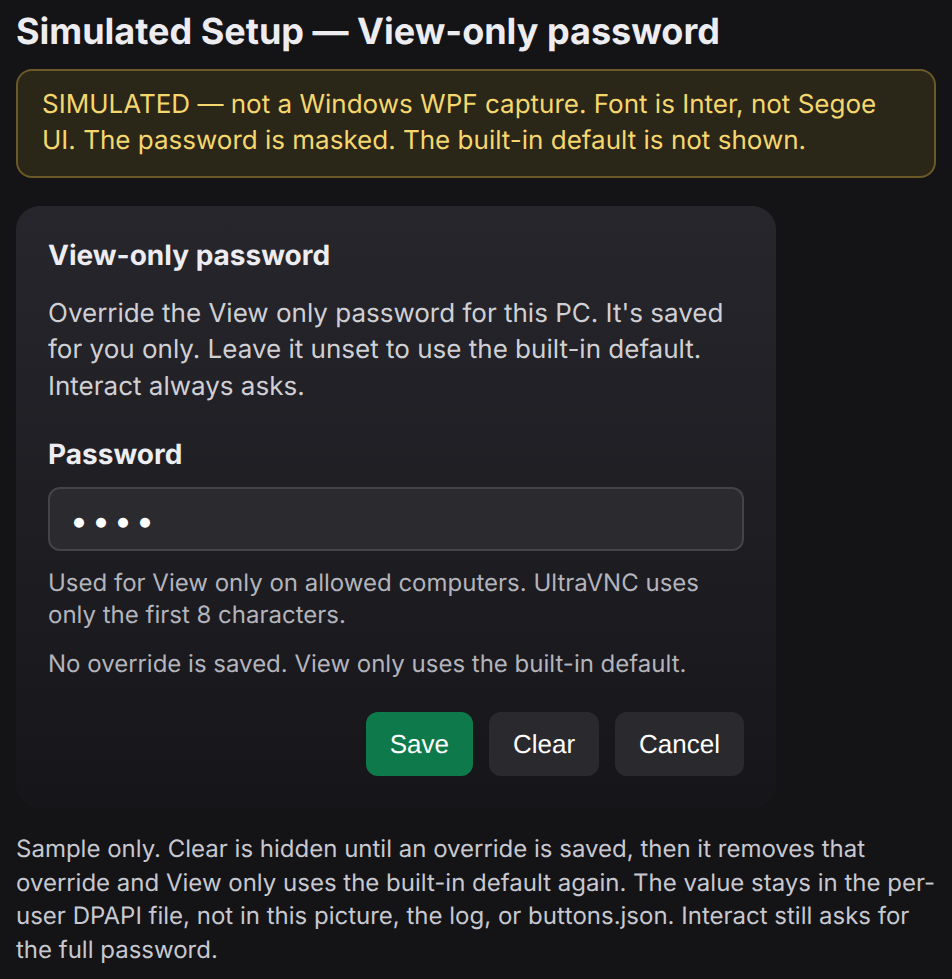
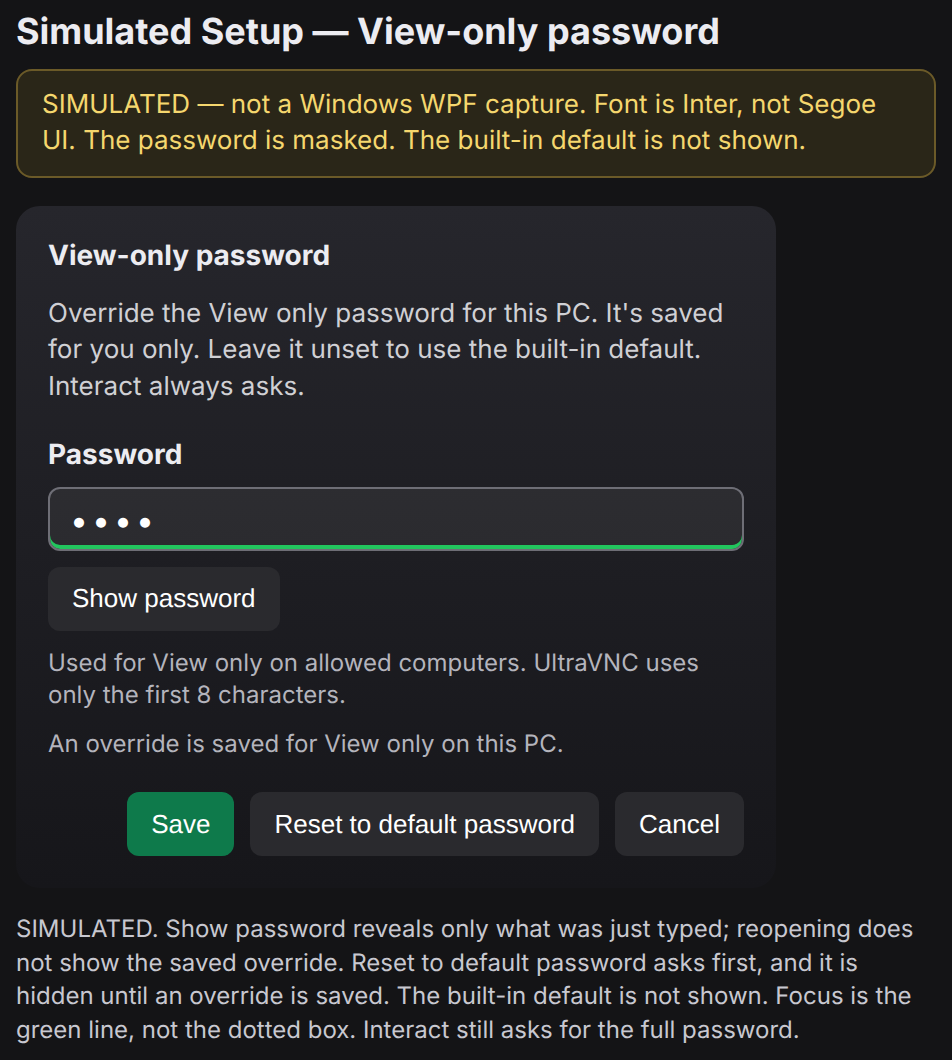
v1.4.12 review: keep the password handoff off the UI thread
The prompt wait is a dispatcher timer that retries the viewer PID and refuses a tie or any process that was already running. The password-style lookup uses GetWindowLongW. Setup can show the typed override and asks before resetting it. The power-art hash is a skip when the host fixture is absent.

diff --git a/reviews/v1.4.12-status/viewonly-password-setting.html b/reviews/v1.4.12-status/viewonly-password-setting.html
@@ -13,7 +13,7 @@
   .dlg h2 { font-size: 14px; font-weight: 650; margin: 0 0 12px; }
   p { margin: 0 0 16px; color: #d0d0d4; font-size: 13px; line-height: 1.4; }
   label { display: block; font-size: 14px; font-weight: 650; margin: 0 0 8px; }
-  .field { height: 32px; border-radius: 6px; background: rgba(255,255,255,.06); border: 1px solid rgba(255,255,255,.12); margin: 0 0 8px; padding: 6px 10px; color: #fff; letter-spacing: 2px; }
+  .field { height: 32px; border-radius: 6px; background: rgba(255,255,255,.06); border: 1px solid #6e6e76; margin: 0 0 8px; padding: 6px 10px; color: #fff; letter-spacing: 2px; box-shadow: inset 0 -2px 0 #22c55e; }
   .note, .status { font-size: 12px; color: #b4b4bc; line-height: 1.35; margin: 0 0 8px; }
   .status { margin-bottom: 16px; }
   .row { display: flex; justify-content: flex-end; gap: 8px; }
@@ -30,14 +30,15 @@
     <p>Override the View only password for this PC. It's saved for you only. Leave it unset to use the built-in default. Interact always asks.</p>
     <label for="pw">Password</label>
     <div class="field" id="pw" aria-label="View-only password">••••</div>
+    <div class="row" style="justify-content:flex-start;margin-bottom:8px"><button>Show password</button></div>
     <p class="note">Used for View only on allowed computers. UltraVNC uses only the first 8 characters.</p>
-    <p class="status">No override is saved. View only uses the built-in default.</p>
+    <p class="status">An override is saved for View only on this PC.</p>
     <div class="row">
       <button class="save">Save</button>
-      <button>Clear</button>
+      <button>Reset to default password</button>
       <button>Cancel</button>
     </div>
   </div>
-  <p class="foot">Sample only. Clear is hidden until an override is saved, then it removes that override and View only uses the built-in default again. The value stays in the per-user DPAPI file, not in this picture, the log, or buttons.json. Interact still asks for the full password.</p>
+  <p class="foot">SIMULATED. Show password reveals only what was just typed; reopening does not show the saved override. Reset to default password asks first, and it is hidden until an override is saved. The built-in default is not shown. Focus is the green line, not the dotted box. Interact still asks for the full password.</p>
 </body>
 </html>

diff --git a/RELEASE-NOTES.md b/RELEASE-NOTES.md
@@ -10,7 +10,7 @@ Not tagged, not published, not installed. Built for review from v1.4.11 `37ea47d
 - **Offline** means that same check finished and the connection was refused, or the peer finished responding with something that was not an RFB greeting.
 - **Not checked** means there is no result yet, a check is in progress, the check timed out, it was cancelled, the address cannot be checked, the check did not finish, or the last result is older than 60 seconds (or more than 5 minutes in the future). None of those are Offline. Being on the allowed list is not Online.
 - The check is the existing allowed-list check: only those computers, the same 300 ms shared budget, at most 12 bytes read, nothing sent. It runs off the UI thread when the window opens and when F5 is pressed. F5 during a check cancels that check without waiting and starts another; a late result from the old check is ignored. Closing the window cancels it the same way (BeginStop, sockets closed in finally). After 60 seconds the labels repaint to Not checked. That timer does not connect.
-- View only on an allowed computer is given a password file even when the row is stale or Not checked, and even when it is listed by name. The file uses the per-user DPAPI override, or the built-in default when no override is saved. A computer that is not on the allowed list is not given one. Interact still asks for the full password and still closes View Register only after a start that did not throw. When that password box is expected, the launcher waits up to 2 seconds for that viewer's own dialog and then tries to put the keyboard in it. If the box is not there yet, nothing else changes. Arguments, Shell.Application with the ProcessStartInfo fallback, and `-autoscaling` are unchanged.
+- View only on an allowed computer is given a password file even when the row is stale or Not checked, and even when it is listed by name. The file uses the per-user DPAPI override, or the built-in default when no override is saved. A computer that is not on the allowed list is not given one. Interact still asks for the full password and still closes View Register only after a start that did not throw. When that password box is expected, a timer (not a freeze of the window) waits up to 2 seconds for that viewer's own dialog and then tries to put the keyboard in it. If the box is not there yet, nothing else changes. Arguments, Shell.Application with the ProcessStartInfo fallback, and `-autoscaling` are unchanged.
 - Review fixes, still not released: the count, checking, and fault line is written after the list is rebuilt, so that rebuild cannot replace it with "Pick a computer". Moving the selection keeps the counts and adds one short line for the selected computer. When a result expires, the counts are rewritten, including while a check is still running, and the same words are not announced again. The line under the list says Online means VNC answered, not signed in or the screen, and Offline is the VNC port, not the whole computer. That line and the counts share the old footer height, so the list still has room for 4 rows at the 410 px minimum. An empty allowed list says "No computers have been allowed yet." The status announcement includes the selected computer's line, and that line keeps at least 180 px beside the counts. Cancelling a check still does not wait on the window; the read gives up within a short slice and the socket is closed.
 
 ## v1.4.11: Interact closes View Register

diff --git a/reviews/v1.4.12-status/viewonly-password-diagnosis.md b/reviews/v1.4.12-status/viewonly-password-diagnosis.md
@@ -2,7 +2,7 @@
 
 Diagnosed at `0c0968dbe56537f96d9a0e515bf11f4f0e177e6b` (same behavior as reviewed v1.4.11 `37ea47df364fdfad29b07703fdd76fcbb925fdf4` for this path, plus the later freshness gate). The line numbers below are from that commit, before the fix. No password file on this machine was opened.
 
-Charles (Nov 9, 6:56 PM ET): View only should use password 1234 unless he overrides it from the panel. When he tried it, the viewer asked for a password the same way Interact does.
+Charles (Nov 9, 6:56 PM ET): View only should use the built-in default unless he overrides it from the panel. When he tried it, the viewer asked for a password the same way Interact does.
 
 ## What the viewer is
 
@@ -102,7 +102,7 @@ The fix, still least privilege and still not typing into the field:
 
 - When Interact starts, or when View only had to fall back to a prompt (no password file), snapshot `vncviewer.exe`, start the viewer the same way, then take the new PID (`Process.Id` when ProcessStartInfo was used, otherwise a new process with that exe path that was not in the snapshot).
 - Call `AllowSetForegroundWindow` for that PID while the launcher is still allowed to grant it, before waiting for the dialog.
-- Poll at most 2 seconds. A window counts only when its process id is that PID, its class is `#32770`, and its title says Authentication or Password. Any other window of that process is ignored. No `BL.Waits` type, or no PID: stop at once and leave the old behaviour.
+- A dispatcher timer polls for up to 2 seconds, so the UI thread is not asleep. Each tick retries the process list. A candidate must be a new `vncviewer.exe` with that exact path and must not be a PID from before the start. Two new processes with the same start time are refused. A window counts only when its process id is that PID, its class is `#32770`, and its title says Authentication or Password. Any other window of that process is ignored. No window to attach the timer to: one pass, no wait.
 - Interact closes View Register first, in the same dispatcher turn, and then activates that dialog. View only that is still showing the picker activates it without closing. Activation is `SetForegroundWindow` on the dialog, then `WM_NEXTDLGCTL` so the dialog itself focuses its password edit (`ES_PASSWORD` if one is present, otherwise the last visible Edit). The edit's text is never read. Nothing is typed, pasted, or sent with SendKeys.
 - If the dialog is not there when the 2 seconds end, log `not found` and close (Interact) or stay (View only) exactly as before.
 
